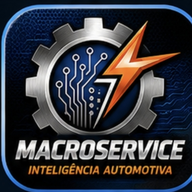
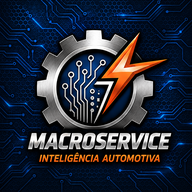
Add files via upload

diff --git a/app.js b/app.js
@@ -49,102 +49,128 @@ function migrateLegacyData(){
   store.set("macro_catalog_migrated",true);
 }
 
-function authFieldIcon(kind){
-  const icons={
-    user:`<svg viewBox="0 0 24 24" aria-hidden="true"><path d="M12 12a4 4 0 1 0 0-8 4 4 0 0 0 0 8Zm-7 8a7 7 0 0 1 14 0"/></svg>`,
-    lock:`<svg viewBox="0 0 24 24" aria-hidden="true"><rect x="5" y="10" width="14" height="10" rx="2"/><path d="M8 10V7a4 4 0 0 1 8 0v3"/></svg>`,
-    phone:`<svg viewBox="0 0 24 24" aria-hidden="true"><path d="M7 3h3l1 5-2 1a15 15 0 0 0 6 6l1-2 5 1v3c0 2-2 4-4 4C9 20 4 15 3 7c0-2 2-4 4-4Z"/></svg>`,
-    mail:`<svg viewBox="0 0 24 24" aria-hidden="true"><rect x="3" y="5" width="18" height="14" rx="2"/><path d="m4 7 8 6 8-6"/></svg>`
-  };
-  return icons[kind]||icons.user;
-}
-function openAuthModal(title, bodyHtml, submitLabel="Fechar", onSubmit=null){
-  document.querySelector("#authModal")?.remove();
-  const wrap=document.createElement("div");
-  wrap.id="authModal";
-  wrap.className="auth-modal-backdrop";
-  wrap.innerHTML=`<div class="auth-modal" role="dialog" aria-modal="true" aria-label="${esc(title)}"><button class="auth-modal-close" id="authModalClose" aria-label="Fechar">×</button><h3>${esc(title)}</h3><div class="auth-modal-body">${bodyHtml}</div><div class="auth-modal-actions"><button class="primary-btn" id="authModalSubmit">${esc(submitLabel)}</button></div></div>`;
-  document.body.appendChild(wrap);
-  const close=()=>wrap.remove();
-  $("#authModalClose").onclick=close;
-  wrap.addEventListener("click",e=>{if(e.target===wrap)close();});
-  $("#authModalSubmit").onclick=()=>{if(onSubmit)onSubmit(close);else close();};
-  return wrap;
-}
 function renderAuth(tab="cliente", mode="login"){
   setAuthScreenMode(true);
   showOnly(authView);
-  const remembered=getRememberedAuth()||{};
-  const rememberedCliente=remembered.role==="cliente"?remembered:{};
-  const rememberedAdmin=remembered.role==="admin"?remembered:{};
-  const footer=`<div class="auth-brand-footer"><strong>MACROSERVICE</strong><span>Inteligência Automotiva</span><small>Juruti - PA • V5.3</small></div>`;
-  const clientLogin=`<div class="form-grid auth-form">
-    <label>Telefone ou e-mail<div class="input-icon-wrap"><span class="field-icon">${authFieldIcon("user")}</span><input id="clienteLoginId" placeholder="Usuário" value="${esc(rememberedCliente.loginId||"")}" autocomplete="username"></div></label>
-    <label>Senha<div class="input-icon-wrap"><span class="field-icon">${authFieldIcon("lock")}</span><input id="clienteSenha" type="password" placeholder="Senha" autocomplete="current-password"><button type="button" class="password-toggle" id="toggleClienteSenha" aria-label="Visualizar senha">👁</button></div></label>
-    <div class="remember-forgot"><label class="remember-line"><input id="lembrarCliente" type="checkbox" ${rememberedCliente.loginId?"checked":""}> <span>Lembrar de mim</span></label><button class="text-link" id="recuperarSenhaBtn">Esqueci minha senha</button></div>
-    <button class="primary-btn login-main-btn" id="entrarCliente">Entrar</button>
-    <div class="auth-divider"><span>ou</span></div>
-    <button class="google-btn" id="googleLoginBtn"><span class="google-g">G</span><span>Continuar com Google</span></button>
-    <button class="create-account-btn" id="irCadastro">Criar uma conta</button>
-    <div class="login-status" id="loginStatus" aria-live="polite"></div>
-  </div>`;
-  const clientSignup=`<div class="form-grid auth-form">
-    <label>Nome completo<div class="input-icon-wrap"><span class="field-icon">${authFieldIcon("user")}</span><input id="cadNome" placeholder="Nome completo" autocomplete="name"></div></label>
-    <label>Telefone / WhatsApp<div class="input-icon-wrap"><span class="field-icon">${authFieldIcon("phone")}</span><input id="cadTelefone" type="tel" placeholder="(93) 99999-9999" autocomplete="tel"></div></label>
-    <label>E-mail<div class="input-icon-wrap"><span class="field-icon">${authFieldIcon("mail")}</span><input id="cadEmail" type="email" placeholder="email@exemplo.com" autocomplete="email"></div></label>
-    <label>Senha<div class="input-icon-wrap"><span class="field-icon">${authFieldIcon("lock")}</span><input id="cadSenha" type="password" placeholder="Crie uma senha" autocomplete="new-password"><button type="button" class="password-toggle" id="toggleCadSenha" aria-label="Visualizar senha">👁</button></div></label>
-    <label>Confirmar senha<div class="input-icon-wrap"><span class="field-icon">${authFieldIcon("lock")}</span><input id="cadSenha2" type="password" placeholder="Confirme a senha" autocomplete="new-password"><button type="button" class="password-toggle" id="toggleCadSenha2" aria-label="Visualizar senha">👁</button></div></label>
-    <button class="primary-btn login-main-btn" id="cadCliente">Cadastrar e entrar</button>
-    <button class="create-account-btn" id="irLogin">Já tenho uma conta</button>
-  </div>`;
-  const adminLogin=`<div class="form-grid auth-form">
-    <label>Usuário administrador<div class="input-icon-wrap"><span class="field-icon">${authFieldIcon("user")}</span><input id="adminUser" value="${esc(rememberedAdmin.user||"admin")}" placeholder="Usuário" autocomplete="username"></div></label>
-    <label>Senha<div class="input-icon-wrap"><span class="field-icon">${authFieldIcon("lock")}</span><input id="adminPass" type="password" placeholder="Senha" autocomplete="current-password"><button type="button" class="password-toggle" id="toggleAdminSenha" aria-label="Visualizar senha">👁</button></div></label>
-    <div class="remember-forgot"><label class="remember-line"><input id="lembrarAdmin" type="checkbox" ${rememberedAdmin.user?"checked":""}> <span>Lembrar de mim</span></label><button class="text-link" id="recuperarAdminBtn">Ajuda de acesso</button></div>
-    <button class="primary-btn login-main-btn" id="entrarAdmin">Entrar</button>
-    <div class="login-status" id="loginStatus" aria-live="polite"></div>
-  </div>`;
-  authView.innerHTML=`<div class="auth-card login-shell">
-    <div class="login-hero"><img src="icon-512.png" alt="Macroservice App" class="login-hero-logo"><h2>${mode==="cadastro"?"Criar conta":"Login"}</h2><p>Seu assistente de oficina</p></div>
-    <div class="auth-tabs"><button class="auth-tab ${tab==="cliente"?"active":""}" id="tabCliente">Cliente</button><button class="auth-tab ${tab==="admin"?"active":""}" id="tabAdmin">Administrador</button></div>
-    ${tab==="cliente"?(mode==="cadastro"?clientSignup:clientLogin):adminLogin}
-    ${footer}
-  </div>`;
+  const remembered = getRememberedAuth() || {};
+  const rememberedCliente = remembered.role === "cliente" ? remembered : {};
+  const rememberedAdmin = remembered.role === "admin" ? remembered : {};
+  authView.innerHTML=`<div class="auth-card login-shell"><div class="login-hero"><img src="icon-512.png" alt="Macroservice App" class="login-hero-logo"><h2>Login</h2><p>Macroservice App • Seu assistente de oficina</p></div>
+  <div class="auth-tabs"><button class="auth-tab ${tab==="cliente"?"active":""}" id="tabCliente">Cliente</button><button class="auth-tab ${tab==="admin"?"active":""}" id="tabAdmin">Administrador</button></div>
+  ${tab==="cliente"?`<div class="auth-mode-switch"><button class="mini-tab ${mode==="login"?"active":""}" id="clienteModoLogin">Entrar</button><button class="mini-tab ${mode==="cadastro"?"active":""}" id="clienteModoCadastro">Cadastrar</button></div>
+  ${mode==="login"?`<div class="form-grid auth-form"><label>Telefone ou e-mail<input id="clienteLoginId" placeholder="(93) 99999-9999 ou email" value="${esc(rememberedCliente.loginId||"")}" autocomplete="username"></label><label>Senha<div class="password-wrap"><input id="clienteSenha" type="password" placeholder="Digite sua senha" autocomplete="current-password"><button type="button" class="password-toggle" id="toggleClienteSenha" aria-label="Visualizar senha">👁</button></div></label><label class="remember-line"><input id="lembrarCliente" type="checkbox" ${rememberedCliente.loginId?"checked":""}> Lembrar de mim</label><button class="primary-btn" id="entrarCliente">Entrar</button><button class="google-btn" id="googleLoginBtn"><span class="google-mark">G</span> Entrar com Google</button><div class="auth-links"><button class="text-link" id="recuperarSenhaBtn">Esqueci minha senha</button><button class="text-link" id="irCadastro">Criar conta</button></div><div class="notice">Nesta versão local os dados ficam salvos neste aparelho. O botão Google já aparece no layout, porém a autenticação completa depende de integração online.</div></div>`:
+  `<div class="form-grid auth-form"><label>Nome completo<input id="cadNome" placeholder="Seu nome completo"></label><label>Telefone / WhatsApp<input id="cadTelefone" type="tel" placeholder="(93) 99999-9999"></label><label>E-mail<input id="cadEmail" type="email" placeholder="email@exemplo.com"></label><label>Senha<div class="password-wrap"><input id="cadSenha" type="password" placeholder="Crie uma senha" autocomplete="new-password"><button type="button" class="password-toggle" id="toggleCadSenha" aria-label="Visualizar senha">👁</button></div></label><label>Confirmar senha<div class="password-wrap"><input id="cadSenha2" type="password" placeholder="Confirme a senha" autocomplete="new-password"><button type="button" class="password-toggle" id="toggleCadSenha2" aria-label="Visualizar senha">👁</button></div></label><button class="primary-btn" id="cadCliente">Cadastrar e entrar</button><div class="auth-links"><button class="text-link" id="irLogin">Já tenho conta</button></div><div class="notice">Cadastre o cliente localmente neste aparelho. Para sincronização entre celulares será necessário banco online.</div></div>`}`:
+  `<div class="form-grid auth-form"><label>Usuário administrador<input id="adminUser" value="${esc(rememberedAdmin.user||"admin")}" autocomplete="username"></label><label>Senha<div class="password-wrap"><input id="adminPass" type="password" placeholder="Senha do administrador" autocomplete="current-password"><button type="button" class="password-toggle" id="toggleAdminSenha" aria-label="Visualizar senha">👁</button></div></label><label class="remember-line"><input id="lembrarAdmin" type="checkbox" ${rememberedAdmin.user?"checked":""}> Lembrar de mim</label><button class="primary-btn" id="entrarAdmin">Entrar</button><div class="auth-links"><button class="text-link" id="recuperarAdminBtn">Esqueci minha senha</button></div><div class="notice">Demonstração local: usuário <b>admin</b> e senha <b>macroservice2026</b>. Para uso real, mover o login para autenticação online segura.</div></div>`}</div>`;
 
-  const status=(msg,error=false)=>{const el=$("#loginStatus");if(!el)return;el.textContent=msg||"";el.classList.toggle("error",!!error);};
-  const bindToggle=(btnSel,inputSel)=>{const btn=$(btnSel),input=$(inputSel);if(!btn||!input)return;btn.onclick=()=>{const show=input.type==="password";input.type=show?"text":"password";btn.textContent=show?"🙈":"👁";btn.setAttribute("aria-label",show?"Ocultar senha":"Visualizar senha");};};
-  const findCliente=(loginId)=>{const id=loginId.trim().toLowerCase();return store.get("macro_clientes").find(c=>String(c.telefone||"").trim().toLowerCase()===id||String(c.email||"").trim().toLowerCase()===id);};
-  const rememberChoice=(role,payload,checked)=>{if(checked)setRememberedAuth({role,...payload});else if(getRememberedAuth()?.role===role)clearRememberedAuth();};
-  const loginCliente=()=>{const loginId=$("#clienteLoginId").value.trim(),senha=$("#clienteSenha").value;if(!loginId||!senha)return status("Informe usuário e senha.",true);const cli=findCliente(loginId);if(!cli||String(cli.senha||"")!==senha)return status("Usuário ou senha incorretos.",true);rememberChoice("cliente",{loginId},$("#lembrarCliente").checked);setSession({role:"cliente",id:cli.id,nome:cli.nome,telefone:cli.telefone||"",email:cli.email||"",provider:cli.provider||"local"});renderHome();};
-  const loginAdmin=()=>{const user=$("#adminUser").value.trim(),pass=$("#adminPass").value;if(user==="admin"&&pass==="macroservice2026"){rememberChoice("admin",{user},$("#lembrarAdmin").checked);setSession({role:"admin",nome:"Administrador"});renderHome();}else status("Usuário ou senha incorretos.",true);};
-
-  $("#tabCliente").onclick=()=>renderAuth("cliente","login");
-  $("#tabAdmin").onclick=()=>renderAuth("admin","login");
-
-  if(tab==="cliente"&&mode==="login"){
-    bindToggle("#toggleClienteSenha","#clienteSenha");
-    $("#entrarCliente").onclick=loginCliente;
-    $("#clienteLoginId").addEventListener("keydown",e=>{if(e.key==="Enter")$("#clienteSenha").focus();});
-    $("#clienteSenha").addEventListener("keydown",e=>{if(e.key==="Enter")loginCliente();});
-    $("#irCadastro").onclick=()=>renderAuth("cliente","cadastro");
-    $("#recuperarSenhaBtn").onclick=()=>{
-      const current=esc($("#clienteLoginId").value||"");
-      openAuthModal("Recuperar senha",`<div class="form-grid"><label>Telefone ou e-mail<input id="recLogin" value="${current}" placeholder="Digite seu cadastro"></label><label>Nova senha<input id="recSenha" type="password" placeholder="Nova senha"></label><label>Confirmar nova senha<input id="recSenha2" type="password" placeholder="Repita a nova senha"></label><div class="modal-msg" id="recMsg"></div></div>`,`Atualizar senha`,close=>{const id=$("#recLogin").value.trim(),s1=$("#recSenha").value,s2=$("#recSenha2").value,msg=$("#recMsg");if(!id||!s1||!s2){msg.textContent="Preencha todos os campos.";return;}if(s1!==s2){msg.textContent="As senhas não conferem.";return;}const clientes=store.get("macro_clientes"),cli=clientes.find(c=>String(c.telefone||"").trim().toLowerCase()===id.toLowerCase()||String(c.email||"").trim().toLowerCase()===id.toLowerCase());if(!cli){msg.textContent="Cadastro não encontrado neste aparelho.";return;}cli.senha=s1;store.set("macro_clientes",clientes);close();status("Senha atualizada. Você já pode entrar.");});
+  const bindToggle = (btnSel, inputSel) => {
+    const btn = $(btnSel), input = $(inputSel);
+    if(!btn || !input) return;
+    btn.onclick = () => {
+      const show = input.type === "password";
+      input.type = show ? "text" : "password";
+      btn.textContent = show ? "🙈" : "👁";
     };
-    $("#googleLoginBtn").onclick=()=>openAuthModal("Entrar com Google",`<p>O botão já está preparado na interface da Macroservice.</p><p>Para o login Google ser real e seguro, precisamos conectar uma autenticação online (Firebase ou Supabase) e informar as credenciais do projeto.</p><p><b>Não vou simular uma conta Google localmente.</b></p>`,`Entendi`);
-  }
+  };
 
-  if(tab==="cliente"&&mode==="cadastro"){
-    bindToggle("#toggleCadSenha","#cadSenha");bindToggle("#toggleCadSenha2","#cadSenha2");
-    $("#irLogin").onclick=()=>renderAuth("cliente","login");
-    $("#cadCliente").onclick=()=>{const nome=$("#cadNome").value.trim(),telefone=$("#cadTelefone").value.trim(),email=$("#cadEmail").value.trim(),senha=$("#cadSenha").value,senha2=$("#cadSenha2").value;if(!nome||!telefone||!senha)return alert("Preencha nome, telefone e senha.");if(senha.length<4)return alert("A senha precisa ter pelo menos 4 caracteres.");if(senha!==senha2)return alert("As senhas não conferem.");const clientes=store.get("macro_clientes");if(clientes.some(c=>String(c.telefone||"").trim()===telefone||(email&&String(c.email||"").trim().toLowerCase()===email.toLowerCase())))return alert("Já existe um cadastro com este telefone ou e-mail.");const cli={id:uid(),nome,telefone,email,senha,provider:"local"};clientes.push(cli);store.set("macro_clientes",clientes);setSession({role:"cliente",id:cli.id,nome:cli.nome,telefone:cli.telefone,email:cli.email||"",provider:"local"});renderHome();};
-  }
+  const findCliente = (loginId) => {
+    const id = loginId.trim().toLowerCase();
+    return store.get("macro_clientes").find(c =>
+      String(c.telefone || "").trim().toLowerCase() === id ||
+      String(c.email || "").trim().toLowerCase() === id
+    );
+  };
 
-  if(tab==="admin"){
-    bindToggle("#toggleAdminSenha","#adminPass");
-    $("#entrarAdmin").onclick=loginAdmin;
-    $("#adminPass").addEventListener("keydown",e=>{if(e.key==="Enter")loginAdmin();});
-    $("#recuperarAdminBtn").onclick=()=>openAuthModal("Acesso do administrador",`<p>Enquanto o app estiver usando autenticação local, o acesso de demonstração é:</p><div class="credential-box"><span>Usuário</span><b>admin</b><span>Senha</span><b>macroservice2026</b></div><p>Quando conectarmos o banco online, essa senha fixa será removida.</p>`,`Fechar`);
+  const rememberChoice = (role, payload, checked) => {
+    if(checked) setRememberedAuth({ role, ...payload });
+    else {
+      const current = getRememberedAuth();
+      if(current?.role === role) clearRememberedAuth();
+    }
+  };
+
+  $("#tabCliente").onclick = () => renderAuth("cliente", mode);
+  $("#tabAdmin").onclick = () => renderAuth("admin", "login");
+
+  if(tab === "cliente"){
+    $("#clienteModoLogin")?.addEventListener("click", () => renderAuth("cliente", "login"));
+    $("#clienteModoCadastro")?.addEventListener("click", () => renderAuth("cliente", "cadastro"));
+    $("#irCadastro")?.addEventListener("click", () => renderAuth("cliente", "cadastro"));
+    $("#irLogin")?.addEventListener("click", () => renderAuth("cliente", "login"));
+
+    if(mode === "login"){
+      bindToggle("#toggleClienteSenha", "#clienteSenha");
+      $("#entrarCliente").onclick = () => {
+        const loginId = $("#clienteLoginId").value.trim();
+        const senha = $("#clienteSenha").value.trim();
+        if(!loginId || !senha) return alert("Informe telefone/e-mail e senha.");
+        const cli = findCliente(loginId);
+        if(!cli || String(cli.senha||"") !== senha) return alert("Cadastro não encontrado ou senha incorreta.");
+        rememberChoice("cliente", { loginId }, $("#lembrarCliente").checked);
+        setSession({ role:"cliente", id:cli.id, nome:cli.nome, telefone:cli.telefone||"", email:cli.email||"", provider:cli.provider||"local" });
+        renderHome();
+      };
+      $("#recuperarSenhaBtn").onclick = () => {
+        const loginId = prompt("Informe o telefone ou e-mail cadastrado para redefinir a senha:", $("#clienteLoginId").value || "");
+        if(!loginId) return;
+        const clientes = store.get("macro_clientes");
+        const cli = clientes.find(c => String(c.telefone||"").trim().toLowerCase() === loginId.trim().toLowerCase() || String(c.email||"").trim().toLowerCase() === loginId.trim().toLowerCase());
+        if(!cli) return alert("Cliente não encontrado.");
+        const novaSenha = prompt("Digite a nova senha:");
+        if(!novaSenha) return;
+        cli.senha = novaSenha.trim();
+        store.set("macro_clientes", clientes);
+        alert("Senha atualizada com sucesso.");
+      };
+      $("#googleLoginBtn").onclick = () => {
+        const nome = prompt("Login Google (modo local):\nInforme seu nome:");
+        if(!nome) return;
+        const email = prompt("Informe seu e-mail Google:");
+        if(!email) return;
+        const clientes = store.get("macro_clientes");
+        let cli = clientes.find(c => String(c.email||"").trim().toLowerCase() === email.trim().toLowerCase());
+        if(!cli){
+          cli = { id: uid(), nome: nome.trim(), telefone: "", email: email.trim(), senha: "", provider: "google" };
+          clientes.push(cli);
+          store.set("macro_clientes", clientes);
+        }
+        rememberChoice("cliente", { loginId: email.trim() }, $("#lembrarCliente").checked);
+        setSession({ role:"cliente", id:cli.id, nome:cli.nome, telefone:cli.telefone||"", email:cli.email||"", provider:"google" });
+        alert("Login Google em modo local salvo. Para autenticação Google real, depois integraremos Firebase/Supabase.");
+        renderHome();
+      };
+    } else {
+      bindToggle("#toggleCadSenha", "#cadSenha");
+      bindToggle("#toggleCadSenha2", "#cadSenha2");
+      $("#cadCliente").onclick = () => {
+        const nome = $("#cadNome").value.trim();
+        const telefone = $("#cadTelefone").value.trim();
+        const email = $("#cadEmail").value.trim();
+        const senha = $("#cadSenha").value.trim();
+        const senha2 = $("#cadSenha2").value.trim();
+        if(!nome || !telefone || !senha) return alert("Preencha nome, telefone e senha.");
+        if(senha !== senha2) return alert("As senhas não conferem.");
+        const clientes = store.get("macro_clientes");
+        const jaExiste = clientes.find(c => String(c.telefone||"").trim() === telefone || (email && String(c.email||"").trim().toLowerCase() === email.toLowerCase()));
+        if(jaExiste) return alert("Já existe um cadastro com este telefone ou e-mail.");
+        const cli = { id: uid(), nome, telefone, email, senha, provider: "local" };
+        clientes.push(cli);
+        store.set("macro_clientes", clientes);
+        setSession({ role:"cliente", id:cli.id, nome:cli.nome, telefone:cli.telefone, email:cli.email||"", provider:"local" });
+        renderHome();
+      };
+    }
+  } else {
+    bindToggle("#toggleAdminSenha", "#adminPass");
+    $("#entrarAdmin").onclick = () => {
+      const user = $("#adminUser").value.trim();
+      const pass = $("#adminPass").value;
+      if(user === "admin" && pass === "macroservice2026"){
+        rememberChoice("admin", { user }, $("#lembrarAdmin").checked);
+        setSession({ role:"admin", nome:"Administrador" });
+        renderHome();
+      } else alert("Usuário ou senha incorretos.");
+    };
+    $("#recuperarAdminBtn").onclick = () => alert("Login administrador de demonstração:\nUsuário: admin\nSenha: macroservice2026");
   }
 }
 

diff --git a/styles.css b/styles.css
@@ -11,26 +11,3 @@
 .google-btn{border:1px solid #315470;border-radius:12px;padding:12px 14px;font-weight:800;background:#0d2233;color:#fff;display:flex;align-items:center;justify-content:center;gap:10px}.google-mark{display:inline-grid;place-items:center;width:24px;height:24px;border-radius:50%;background:#fff;color:#ea4335;font-weight:900}
 .auth-links{display:flex;justify-content:center;gap:12px;flex-wrap:wrap}.text-link{border:0;background:transparent;color:#56b9ff;font-weight:800;padding:4px 6px}
 @media (max-width:480px){.login-hero-logo{width:132px;height:132px}.login-hero h2{font-size:1.8rem}}
-
-/* V5.3 login refinado */
-.auth-screen{background:
-  radial-gradient(circle at 50% 0%,rgba(16,84,130,.42),transparent 38%),
-  linear-gradient(180deg,#061725 0%,#020a11 100%)}
-.auth-screen .main-content{max-width:430px;padding:14px 14px 20px;align-items:flex-start}
-.login-shell{width:100%;margin:0!important;padding:18px 16px 16px!important;border:1px solid rgba(54,106,143,.7)!important;border-left:1px solid rgba(54,106,143,.7)!important;border-radius:28px!important;background:linear-gradient(180deg,rgba(6,22,34,.98),rgba(2,12,20,.99))!important;box-shadow:0 22px 60px rgba(0,0,0,.5),inset 0 1px 0 rgba(255,255,255,.03)!important;overflow:hidden}
-.login-hero{margin:0 0 18px}.login-hero-logo{width:158px;height:158px;border-radius:30px;border:2px solid #369ee8;box-shadow:0 0 0 5px rgba(34,143,219,.08),0 16px 34px rgba(0,0,0,.45)}
-.login-hero h2{font-size:1.9rem;margin:14px 0 3px;letter-spacing:.01em}.login-hero p{color:#6bc1ff;font-size:.93rem;font-weight:700}
-.auth-tabs{margin:0 0 14px;padding:4px;border:1px solid #173d59;border-radius:14px;background:#061827;gap:4px}.auth-tab{border:0;border-radius:10px;background:transparent;color:#8faec4;padding:10px 8px}.auth-tab.active{background:#123752;color:#fff;box-shadow:inset 0 0 0 1px #2d80b9}
-.auth-form{gap:13px}.auth-form>label{font-size:.84rem;color:#aec5d6;font-weight:700;gap:7px}
-.input-icon-wrap{position:relative}.input-icon-wrap input{height:54px;padding:0 50px 0 48px!important;border-radius:14px!important;border:1px solid #2a4b62!important;background:linear-gradient(180deg,#132c3e,#0e2332)!important;box-shadow:inset 0 1px 0 rgba(255,255,255,.025);font-size:1rem}.input-icon-wrap input:focus{outline:none;border-color:#2fa8ff!important;box-shadow:0 0 0 3px rgba(47,168,255,.12)}
-.field-icon{position:absolute;left:15px;top:50%;transform:translateY(-50%);width:21px;height:21px;color:#d7e7f2;z-index:1;display:grid;place-items:center}.field-icon svg{width:21px;height:21px;fill:none;stroke:currentColor;stroke-width:1.9;stroke-linecap:round;stroke-linejoin:round}
-.password-toggle{right:8px;width:38px;height:38px;border:0;background:transparent;color:#cfe0ea;font-size:1.05rem}
-.remember-forgot{display:flex;align-items:center;justify-content:space-between;gap:10px}.remember-line{font-size:.88rem!important;color:#e9f1f5!important;gap:8px}.remember-line input{accent-color:#ff7a00}.remember-line span{white-space:nowrap}.text-link{color:#57baff;font-size:.88rem;padding:5px 0}
-.login-main-btn{height:54px;border-radius:14px!important;font-size:1.05rem;letter-spacing:.01em;box-shadow:0 8px 20px rgba(255,111,0,.18)}
-.auth-divider{display:flex;align-items:center;gap:10px;color:#6d8799;font-size:.8rem}.auth-divider::before,.auth-divider::after{content:"";height:1px;flex:1;background:#17364b}.auth-divider span{padding:0 4px}
-.google-btn{height:52px;border-radius:14px;background:#fff;color:#16212a;border:1px solid #d6e0e6;box-shadow:0 6px 18px rgba(0,0,0,.18);font-weight:800}.google-btn:active{transform:scale(.99)}.google-g{font-family:Arial,sans-serif;font-weight:900;font-size:1.15rem;background:conic-gradient(from -45deg,#4285f4 0 25%,#34a853 0 50%,#fbbc05 0 75%,#ea4335 0);-webkit-background-clip:text;background-clip:text;color:transparent}
-.create-account-btn{border:0;background:transparent;color:#58baff;font-weight:800;padding:7px}
-.login-status{min-height:18px;text-align:center;font-size:.86rem;color:#82e0a9}.login-status.error{color:#ff9c9c}
-.auth-brand-footer{margin-top:17px;padding-top:15px;border-top:1px solid #15334a;text-align:center}.auth-brand-footer strong{display:block;font-size:1.18rem;letter-spacing:.05em;color:#f1f5f7}.auth-brand-footer span{display:block;margin-top:4px;font-weight:700;color:#b3c7d5}.auth-brand-footer small{display:block;margin-top:5px;color:#6abfff}
-.auth-modal-backdrop{position:fixed;inset:0;z-index:1000;display:grid;place-items:center;padding:18px;background:rgba(0,5,9,.78);backdrop-filter:blur(6px)}.auth-modal{position:relative;width:min(100%,390px);border-radius:20px;border:1px solid #28506b;background:linear-gradient(180deg,#0b2435,#06151f);padding:20px;box-shadow:0 24px 60px rgba(0,0,0,.55)}.auth-modal h3{margin:0 36px 14px 0;font-size:1.3rem}.auth-modal p{color:#b7cad7;line-height:1.45}.auth-modal-close{position:absolute;right:12px;top:10px;border:0;background:transparent;color:#b8d4e6;font-size:1.8rem}.auth-modal-actions{margin-top:16px}.auth-modal-actions .primary-btn{width:100%}.auth-modal .form-grid input{background:#071827}.modal-msg{min-height:18px;color:#ff9c9c;font-size:.86rem}.credential-box{display:grid;grid-template-columns:1fr 1fr;gap:7px 10px;padding:12px;border:1px solid #244963;border-radius:12px;background:#071827}.credential-box span{color:#8faabc}.credential-box b{color:#fff;text-align:right}
-@media(max-width:390px){.login-shell{padding:15px 13px!important;border-radius:22px!important}.login-hero-logo{width:138px;height:138px}.login-hero h2{font-size:1.7rem}.remember-forgot{align-items:flex-start;flex-direction:column;gap:3px}.text-link{align-self:flex-start}.input-icon-wrap input{height:50px}}

diff --git a/sw.js b/sw.js
@@ -1,4 +1,4 @@
-const CACHE_NAME="macroservice-v5.3";
+const CACHE_NAME="macroservice-v5.4";
 const ASSETS=["./","./index.html","./styles.css","./catalog.js","./app.js","./logo.png","./icon-192.png","./icon-512.png","./icon-maskable-512.png","./manifest.webmanifest"];
 self.addEventListener("install",event=>{event.waitUntil(caches.open(CACHE_NAME).then(cache=>cache.addAll(ASSETS)));self.skipWaiting();});
 self.addEventListener("activate",event=>{event.waitUntil(caches.keys().then(keys=>Promise.all(keys.filter(k=>k!==CACHE_NAME).map(k=>caches.delete(k)))));self.clients.claim();});

diff --git a/README.md b/README.md
@@ -1,4 +1,4 @@
-# Macroservice App V5.3
+# Macroservice App V5.4
 
 Atualização funcional mantendo a interface azul/laranja da revisão anterior.
 
@@ -31,13 +31,8 @@ A biblioteca de peças é genérica. A compatibilidade exata deve ser confirmada
 - Opção “Lembrar de mim” para cliente e administrador.
 
 
-## Novidades V5.3
-- Tela de login refinada seguindo o modelo visual enviado pelo usuário.
-- Campos de usuário, telefone, e-mail e senha com ícones integrados.
-- Botão de visualizar/ocultar senha preservado e melhor posicionado.
-- Recuperação de senha em janela própria, sem prompts soltos do navegador.
-- Login com tecla Enter e mensagens de erro dentro da tela.
-- Opção “Lembrar de mim” reorganizada junto ao acesso de recuperação.
-- Botão Google redesenhado; não simula autenticação Google local. A conexão real exige Firebase/Supabase e credenciais.
-- Rodapé interno da tela de login com MACROSERVICE, Inteligência Automotiva, Juruti - PA e versão.
-- Melhor adaptação a telas pequenas.
+## Novidades V5.4
+- Logo principal atualizado para a nova arte com fundo tecnológico em azul profundo.
+- Ícone do app atualizado sem a borda duplicada anterior.
+- Imagem do topo da tela de login atualizada automaticamente via `icon-512.png`.
+- Service worker atualizado para forçar renovação do cache da nova identidade visual.
